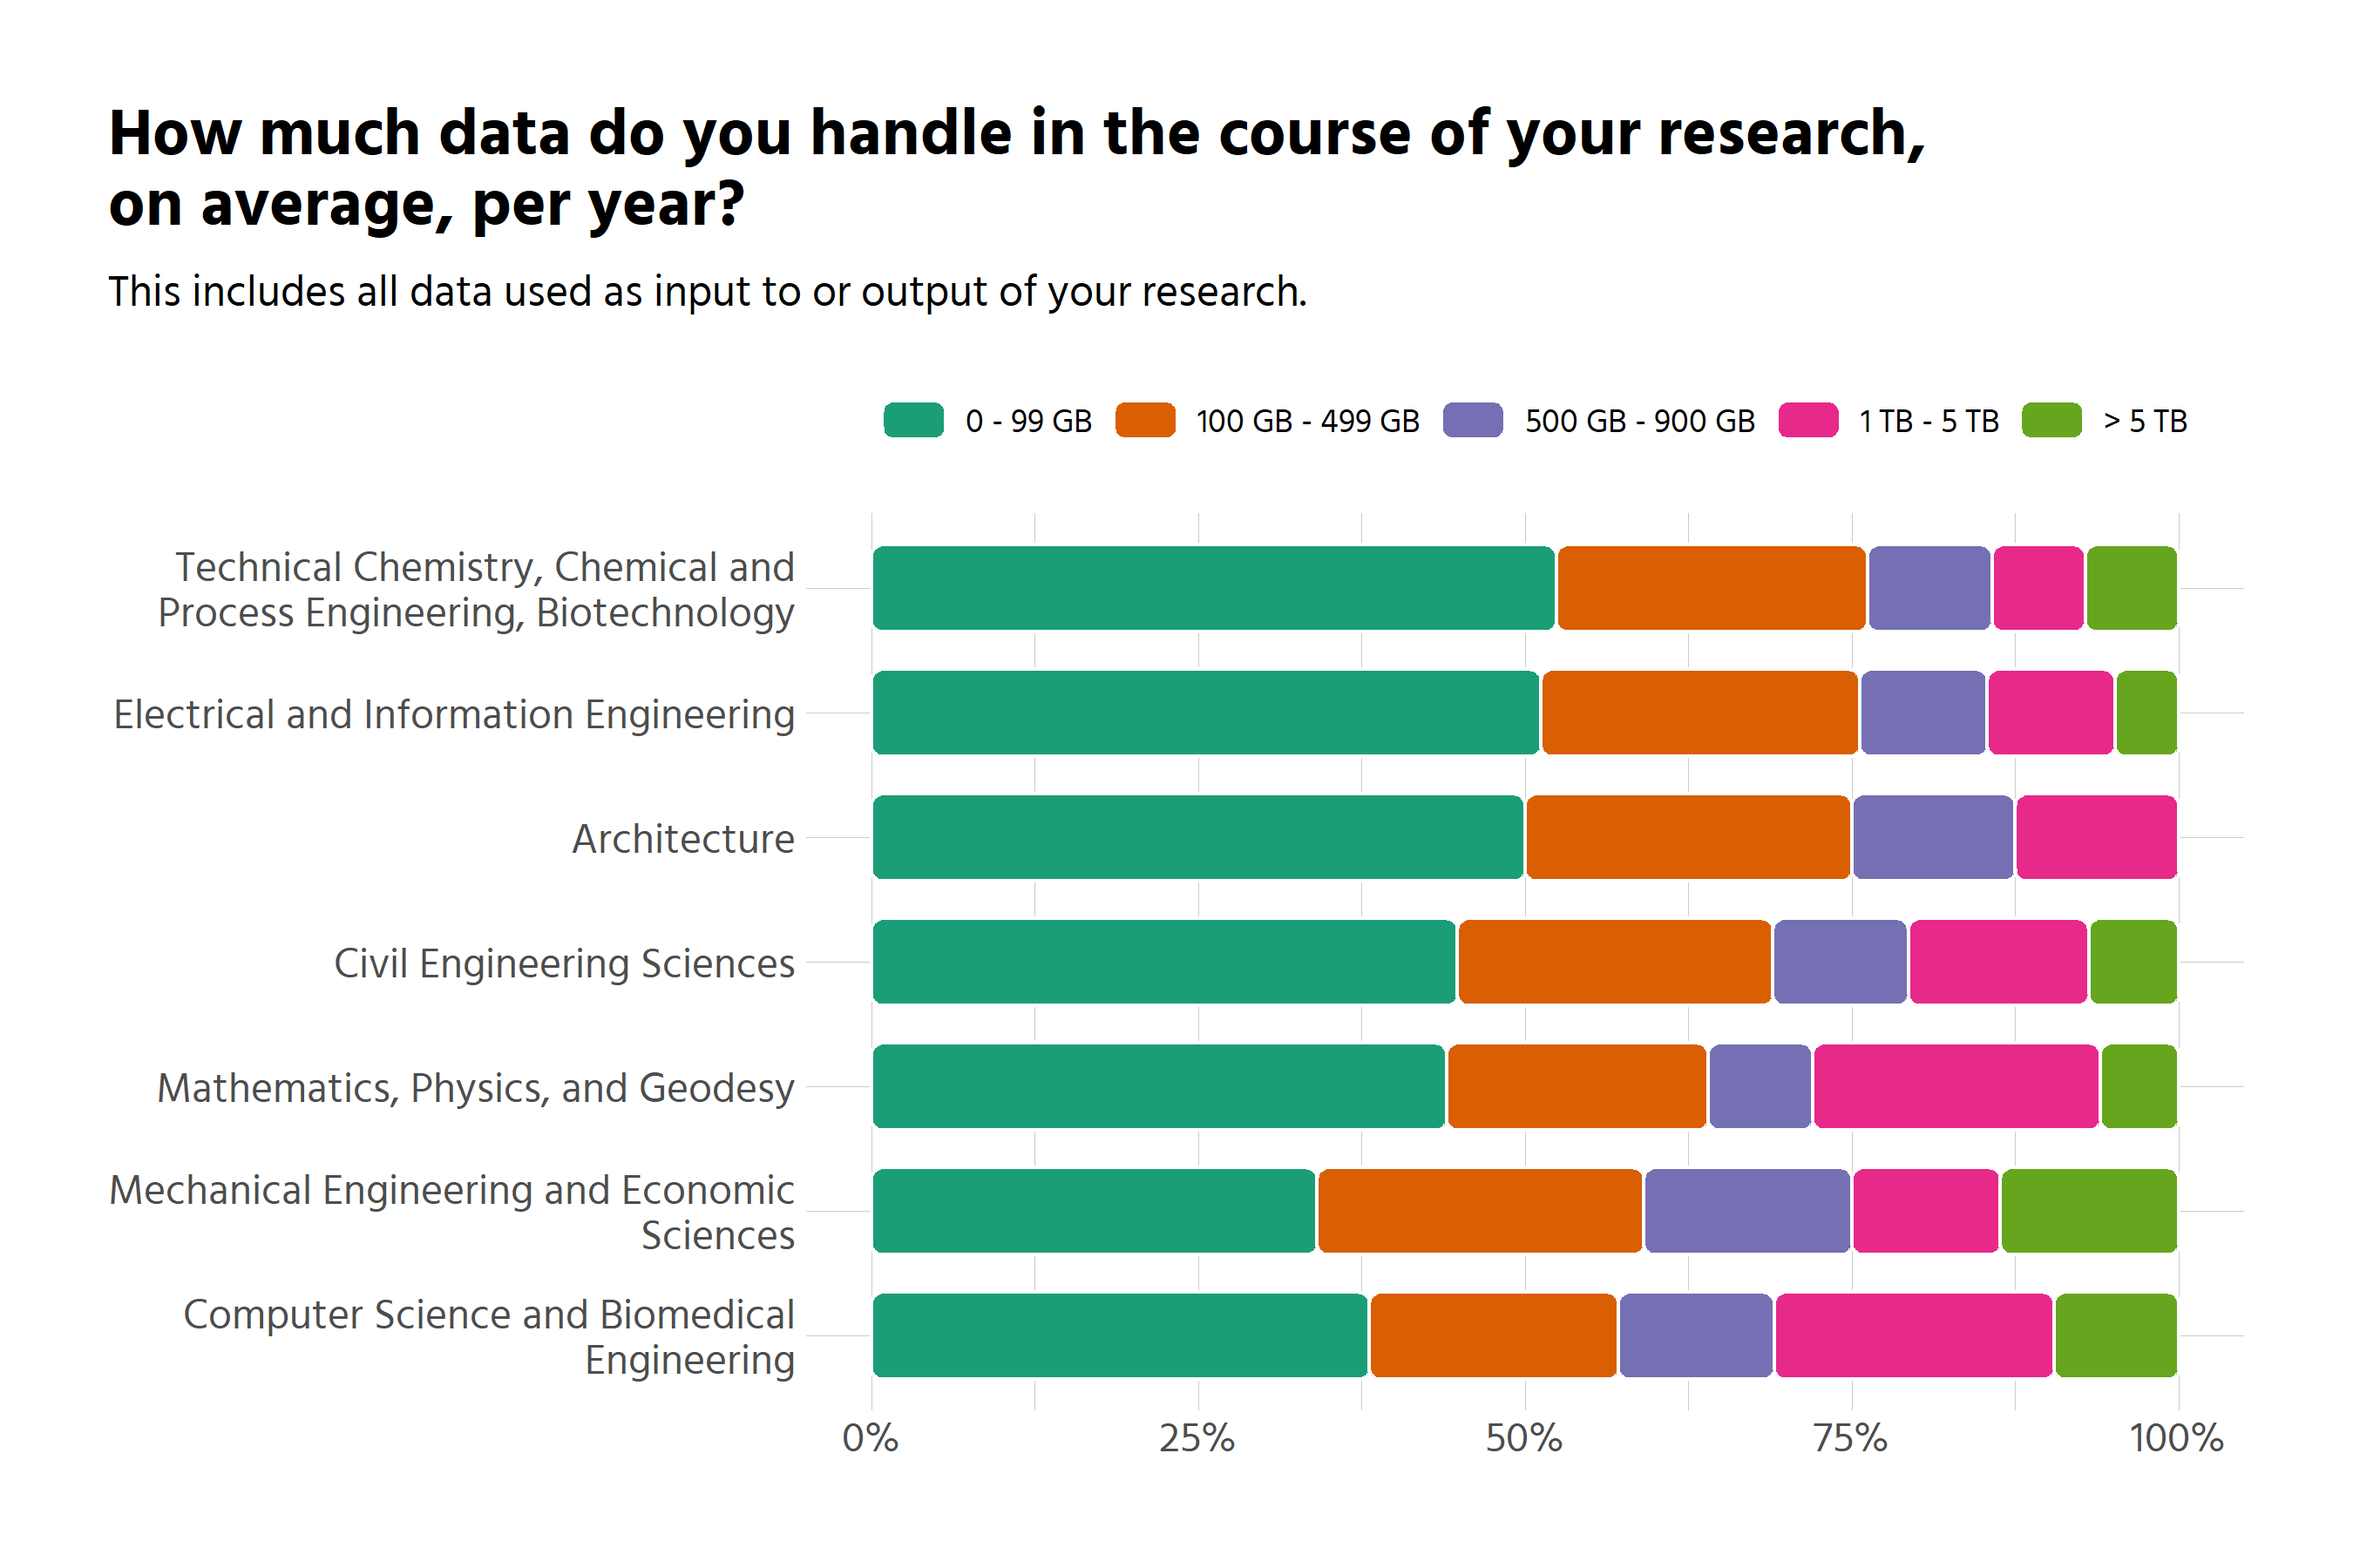
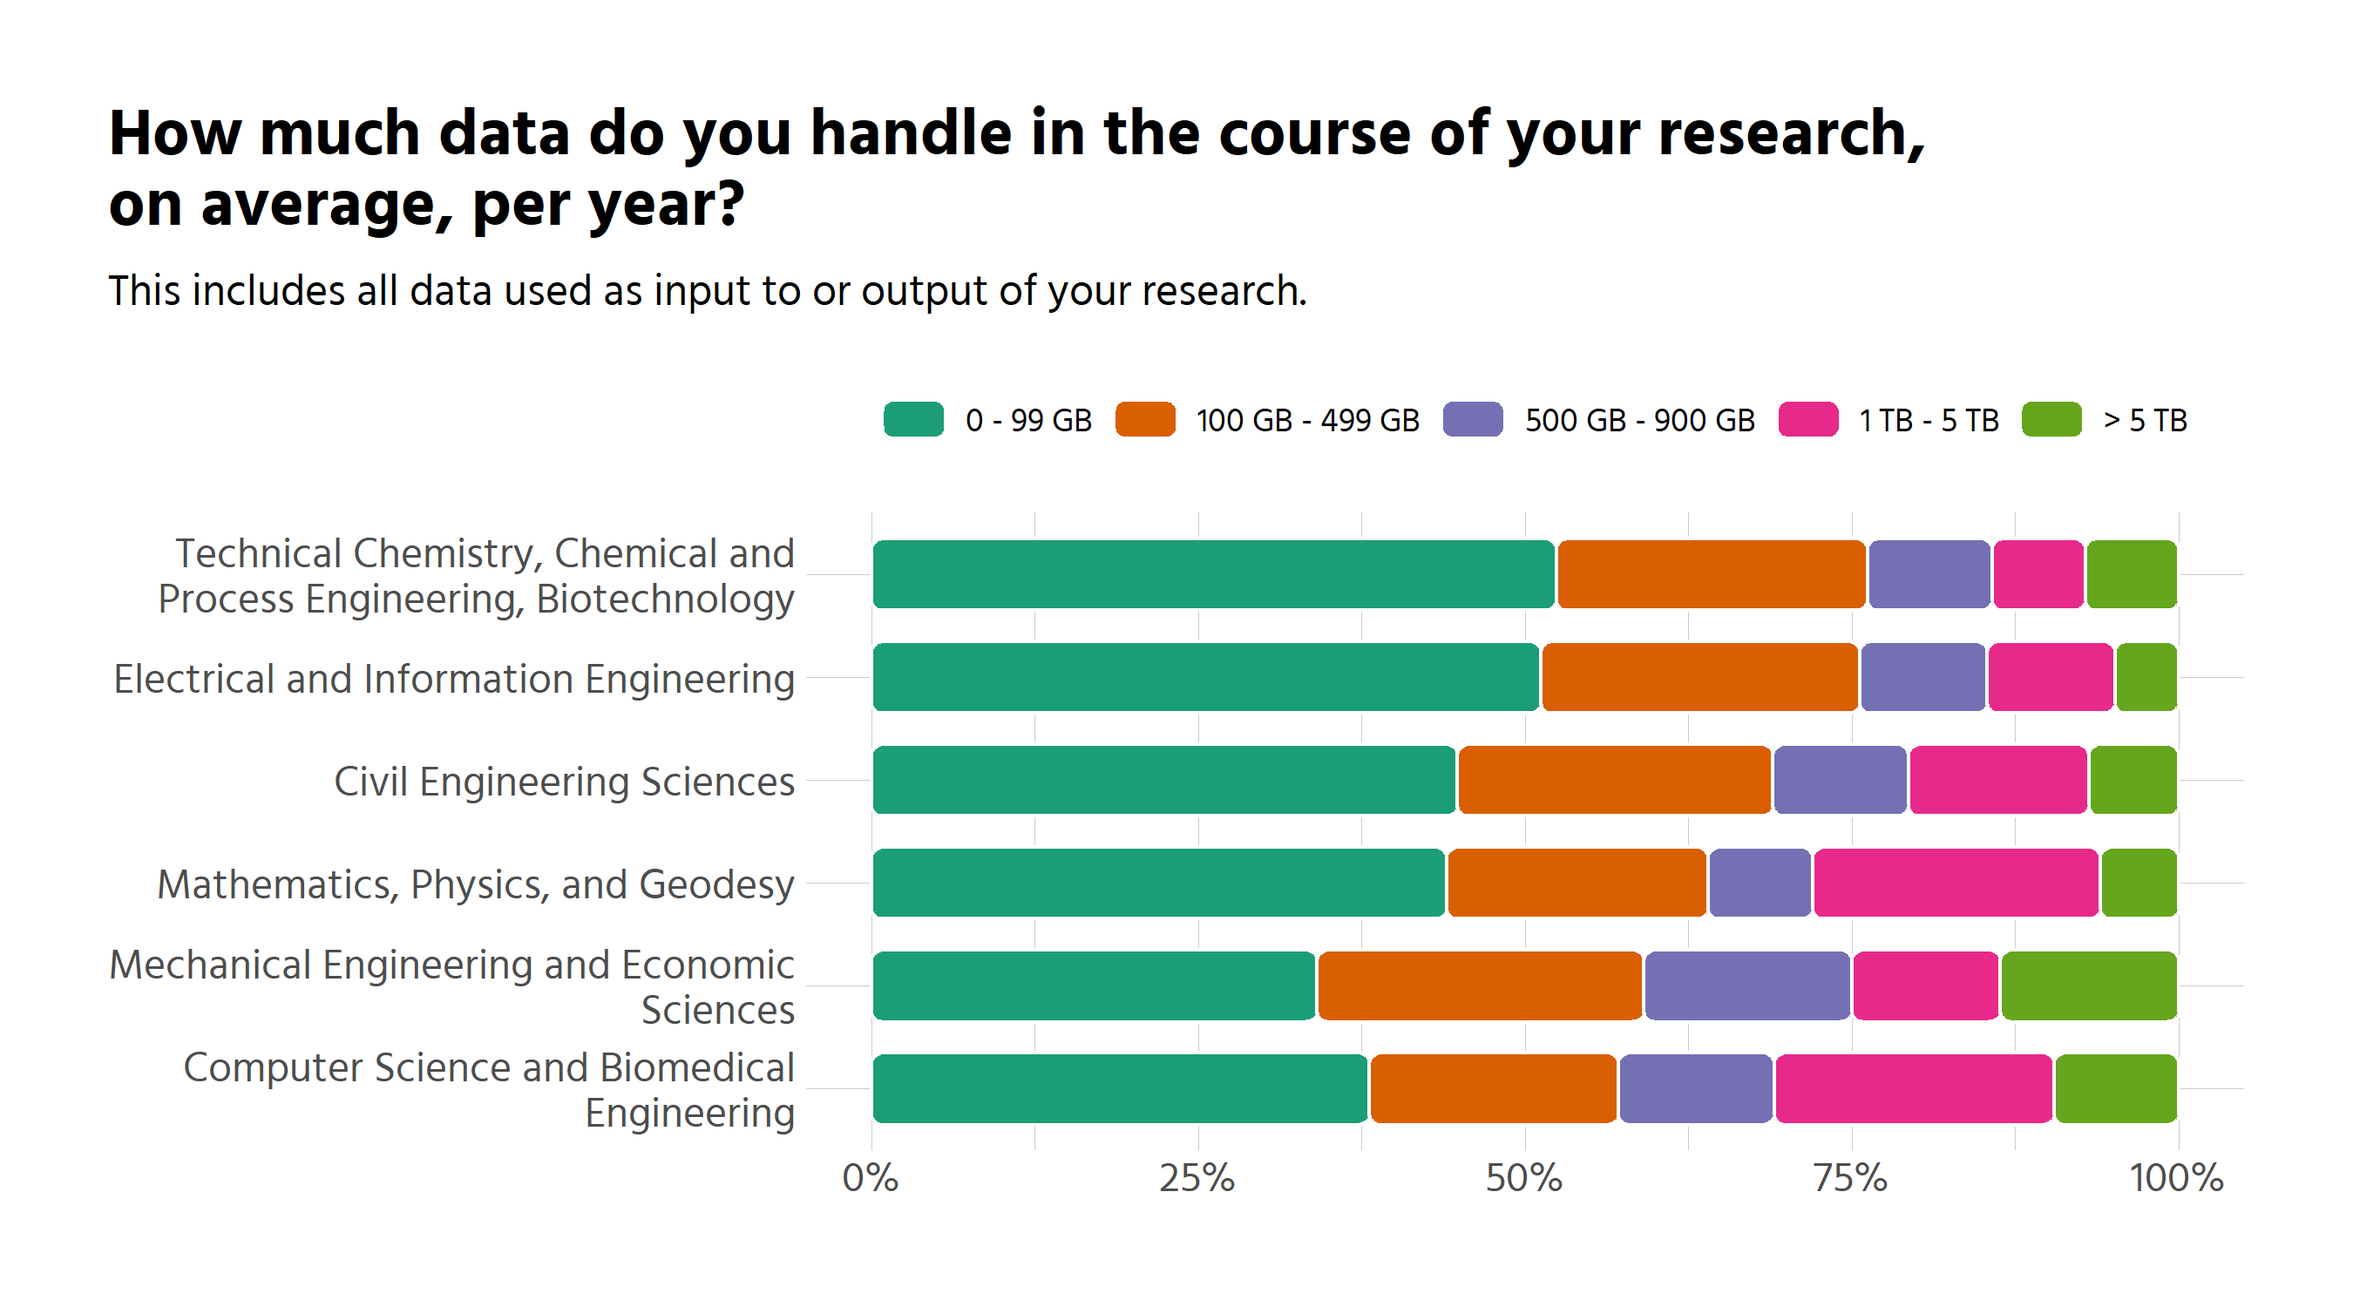
update and add new figures
drop architecture, add figure about long-term-storage

diff --git a/todo.md b/todo.md
@@ -1,7 +1,8 @@
 # Figures to create
 
-- table 6: check stats, possibly collapse categories
-- table 5: make univ figure with counts and percentage
-- table 3: check stats, possibly collapes categories
-- table 4: check stats, possibly drop architecture
-- table 7: think about dropping architecture
+- table 6: no chi2, dont collapse cats, create figure, be creative on how to 
+display
+- table 5: make univ figure with counts and percentage DONE
+- table 3: check stats, drop architecture DONE
+- table 4: check stats,  drop architecture DONE
+- table 7: think about dropping architecture: drop DONE
